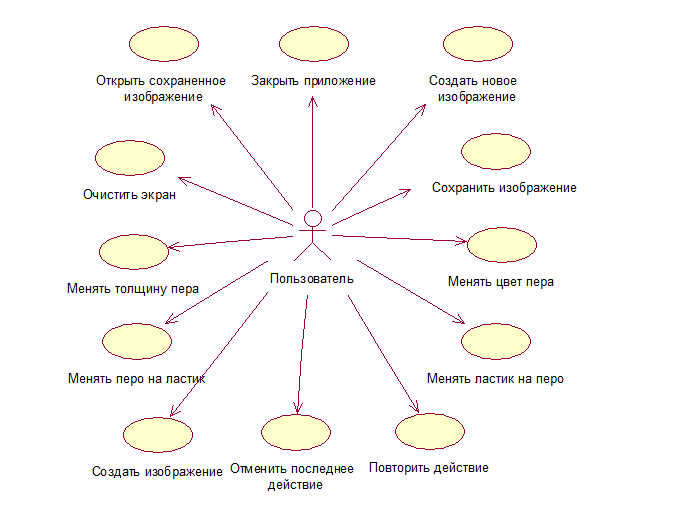
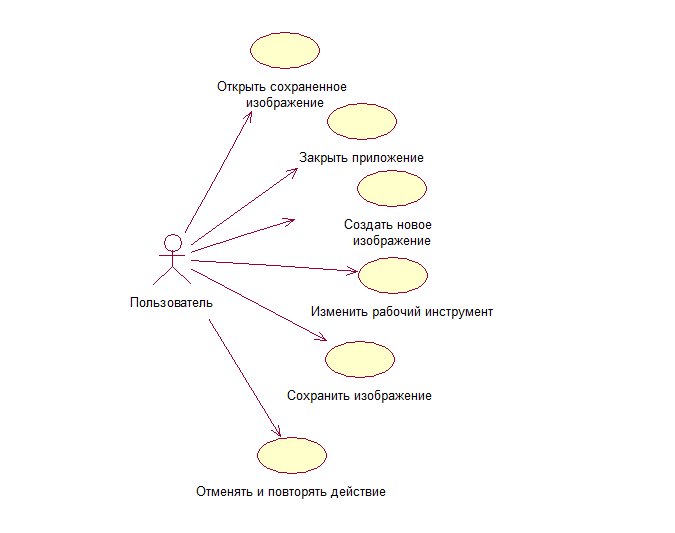
7

diff --git a/docs/diagramsDoc/useCase.md b/docs/diagramsDoc/useCase.md
@@ -1,3 +1,6 @@
+# Глосарий
+![](diagramsImg/GlossaryUseCase.png)
+
 # 1. Диаграмма вариантов использования
 ![](diagramsImg/UseCase.png)
 
@@ -29,21 +32,51 @@
 
 ## 2.3. Создать новое изображение
 ### Описание
-Вариант использования "Создать новое изображение" позволяет  пользователю открыть "Окно с рабочей поверхностью".
+Вариант использования "Создать новое изображение" позволяет  пользователю работать с рабочей поверхностью.
 ### Предусловие
-Пользователь нажал иконку "Добавить изображение".
+Пользователь нажал иконку "Добавить изображение" - открывается "Окно с рабочей поверхностью".
 ### Основной поток
 1. Приложение отображает "Окно с рабочей поверхностью".
+2. Пользователь проводит пальцем по экрану. При данном действии выполняется альтернативный поток А1.
+3. Пользователь нажал иконку "Очистить экран". При данном действии выполняется альтернативный поток А2.  
+4. Вариант использования завершается.
+
+### Альтернативный поток А1.
+1. Изображение на рабочей поверхности меняется.
 2. Вариант использования завершается.
 
-## 2.4. Очистить экран
-### Описание
-Вариант использования "Очистить экран" позволяет  пользователю привести  рабочую поверхность к первоначальному состоянию.
-### Предусловие
-Пользователь нажал иконку "Очистить экран".
-### Основной поток
+### Альтернативный поток А2.
 1. Рабочая поверхность очищается.
 2. Вариант использования завершается.
+
+## 2.4. Изменить рабочий инструмент.
+### Описание
+Вариант использования "Изменить рабочий инструмент" позволяет пользователю менять в пикселях толщину нарисованной линии, менять цвет пера на любой из 7 цветов радуги, менять перо на ластик и обратно.
+### Предусловие
+Пользователь нажимает иконки "Инструменты", на любой цветной кружок из 7 правой панели инструментов.
+### Основной поток
+1.  Приложение отображает "Окно с рабочей поверхностью".
+2. Пользователь нажимает на иконку "Инструменты". При данном действии выполняется альтернативные потоки А1, А2, А3.
+3. Пользователь, нажимая на любой кружок из 7 правой панели инструментов, меняет цвет пера.
+4. Вариант использования завершается.
+
+### Альтернативный поток А1.
+1. Приложение отображает "Окно выбора толщины пера и выбора между пером и ластиком".
+2. Пользователь меняет положение скрола "толщина" на необходимое количество пикселей.
+3.  Выходит в "Окно с рабочей поверхностью".
+4. Вариант использования завершается.
+
+### Альтернативный поток А2.
+1. Приложение отображает "Окно выбора толщины пера и выбора между пером и ластиком".
+2. Пользователь меняет иконку "перо" на иконку "ластик".
+3.  Выходит в "Окно с рабочей поверхностью".
+4. Вариант использования завершается.
+
+### Альтернативный поток А3.
+1. Приложение отображает "Окно выбора толщины пера и выбора между пером и ластиком".
+2. Пользователь меняет иконку "ластик" на иконку "перо".
+3. Выходит в "Окно с рабочей поверхностью".
+4. Вариант использования завершается.
 
 ## 2.5. Сохранить изображение
 ### Описание
@@ -53,12 +86,12 @@
 ### Основной поток
 1. Приложение отображает "Окно сохранения".
 2. Пользователь вводит имя картинки.
-3. Пользователь нажимает кнопку "Сохранить". Если пользователь ничего не ввел выполняется альтернативный поток А2.
+3. Пользователь нажимает кнопку "Сохранить". Если пользователь ничего не ввел выполняется альтернативный поток А1.
 4. Изображение сохраняется и отображается "Окно с рабочей поверхностью".
 Если изображение не сохраняется то выполняется поток ошибки Е1.
 5. Вариант использования завершается.
 
-### Альтернативный поток А2
+### Альтернативный поток А1
 1. Приложение сообщает пользователю об отсутствии информации в поле ввода.
 2. Возврат к п.1 основного потока.
 
@@ -66,73 +99,22 @@
 1. Приложение сообщает пользователю что картинка не была сохраненна.
 2. Вариант использования завершается досрочно.
 
-## 2.6. Менять толщину пера
+## 2.6. Отменить и повторить действие
 ### Описание
-Вариант использования "Менять толщину пера" позволяет  пользователю менять в пикселях толщину нарисованной линии.
+Вариант использования "Отменить и повторить действие" позволяет  пользователю менять состояние рабочей поверхности.
 ### Предусловие
-Пользователь нажимает иконку "Инструменты".
-
+Пользователь нажимает иконки "Отменить последнее действие" и "Повторить действие".
 ### Основной поток
-1.  Приложение отображает "Окно выбора толщины пера и выбора между пером и ластиком".
-2. Пользователь меняет положение скрола "толщина" на необходимое количество пикселей.
-3.  Выходит в "Окно с рабочей поверхностью".
-4. Вариант использования завершается.
+1.  Приложение отображает "Окно с рабочей поверхностью".
+2. Пользователь нажимает иконки "Отменить последнее действие".
+При данном действии выполняется альтернативный поток А1.
+3. Пользователь нажимает иконки "Повторить действие".
+При данном действии выполняется альтернативный поток А2.
 
-
-## 2.7. Менять цвет пера
-### Описание
-Вариант использования "Менять цвет пера" позволяет  пользователю менять цвет пера на любой из 7 цветов радуги.
-### Предусловие
-Пользователь нажимает на любой кружок из 7 правой панели инструментов.
-### Основной поток
-1. Цвет пера меняется
-2. Вариант использования завершается.
-
-## 2.8. Менять перо на ластик
-### Описание
-Вариант использования "Менять перо на ластик" позволяет  пользователю поменять перо на ластик.
-### Предусловие
-Пользователь нажимает иконку "Инструменты".
-### Основной поток
-1.  Приложение отображает "Окно выбора толщины пера и выбора между пером и ластиком".
-2. Пользователь меняет иконку "перо" на иконку "ластик".
-3. Выходит в "Окно с рабочей поверхностью".
-4. Вариант использования завершается.
-
-## 2.9. Менять ластик на перо
-### Описание
-Вариант использования "Менять ластик на перо" позволяет  пользователю поменять ластик на перо.
-### Предусловие
-Пользователь нажимает иконку "Инструменты".
-### Основной поток
-1.  Приложение отображает "Окно выбора толщины пера и выбора между пером и ластиком".
-2. Пользователь меняет иконку "ластик" на иконку "перо".
-3. Выходит в "Окно с рабочей поверхностью".
-4. Вариант использования завершается.
-
-## 2.10. Создать изображение
-### Описание
-Вариант использования "Создать изображение" позволяет  пользователю рисуя пальцем по рабочей поверхности создавать картинку.
-### Предусловие
-Пользователь проводит пальцем по рабочей поверхности.
-### Основной поток
-1. Изображение на рабочей поверхности меняется.
-2. Вариант использования завершается.
-
-## 2.11. Отменить последнее действие
-### Описание
-Вариант использования "Отменить последнее действие" позволяет  пользователю отменить последнее действие.
-### Предусловие
-Пользователь нажимает иконку "Отменить последнее действие".
-### Основной поток
+### Альтернативный поток А1
 1. Состояние рабочей поверхности меняется на придыдущее.
 2. Вариант использования завершается.
 
-## 2.12. Повторить действие
-### Описание
-Вариант использования "Повторить действие" позволяет  пользователю повторить отмененное действие.
-### Предусловие
-Пользователь нажимает иконку "Повторить действие".
-### Основной поток
+### Альтернативный поток А2
 1. Состояние рабочей поверхности меняется на отмененное.
 2. Вариант использования завершается.

diff --git a/docs/requirementsDoc/srs.md b/docs/requirementsDoc/srs.md
@@ -8,7 +8,7 @@
 ## 1. <a name="b">Введение</a>
 
 ### 1.1. Назначение
-В этом документе содержатся требования к приложению "SketchBook" под операционную среду Android.
+В этом документе содержаться требования к приложению "SketchBook" под операционную среду Android.
 
 ### 1.2. Границы
 Данное приложение позволяет рисовать пальцем элементарные картинки и сохранять их в формате png.
@@ -24,64 +24,51 @@
 
 ## 2. <a name ="c">Бизнес-требования</a>
 ### 2.1. Исходные данные
-Дети дошкольного возраста, занимаясь рисованием и используя реальные краски, могут испортить свою одежду и окружающий интерьер. Исходя из этого, данное приложение будет идеальным заменителем бумаги и кисточки.
+Дети дошкольного возраста занимаясь рисованием и используя реальные краски могут испортить свою одежду и окружающий интерьер.
 ### 2.2. Возможности бизнеса
-Приложение должно отличаться интуитивностью в использовании: ребенок любого возраста должен легко и просто, без знания языка,  в пару кликов, начать рисовать.
+Приложение должно отличаться интуитивностью в использовании - ребенок любого возраста должен легко и просто, без знания языка,  в пару кликов, начать рисовать.
 ## 3. <a name = "d">Требования пользователя</a>
 ### 3.1. Программные интерфейсы
 Проект использует Android 6.0, API Level: 23, выполнен в интегрированной среде разработки для работы с платформой Android - Android Studio.
 ### 3.2. Интерфейс пользователя
-Главное окно приложения, из которого можно открыть сохраненное изображение или добавить новое.
-
+Главное окно приложения из которого можно открыть сохраненное изображение или добавить новое.
 ![](mockups/Main.png)
 
 Нажав на иконку загрузки, которая находится в верхнем правом углу главного окна, открывается окно с сохраненными картинками.
-
 ![](mockups/Loading.png)
 
 Окно с рабочей поверхностью и с двумя панелями инструментов.
-
 ![](mockups/Working.png)
 
 Окно сохранения.
-
 ![](mockups/Save.png)
 
-Окно выбора толщины пера и выбора между пером и ластиком.
-
+Окновы выбора толщины пера и выбора между пером и ластиком.
 ![](mockups/Tools.png)
 
 ### 3.3. Характеристики пользователя
-Приложение рассчитано для творческого развития детей дошкольного возраста, а также как средство досуга и релакса людей других возрастных категорий.
+Приложение рассчитано для творческого развития детей дошкольного возраста, а так же как средство досуга и релакса других возрастных категорий.
 ### 3.4. Предположения и зависимости
-* необходимое свободное место в памяти мобильного устройства около 10 Мбайт;
-* приложение может работать оффлайн.
+* необходимое сводное место в памяти мобильного устройства в районе 10 Мбайт;
+* приложение может работать офлайн.
 
-
-
-## 4. <a name = "e">Системные требования</a>
-
+## 4. <a name = "e"> Системные требования </a>
 ### 4.1. Функциональные требования
 При работе с приложением пользователь должен иметь следующие возможности:
-* открыть ранее сохраненное изображение;
-* закрыть приложение;
-* создать новое изображение;
-<<<<<<< HEAD
+
+#### 4.1.1. Открыть ранее сохраненное изображение.
+#### 4.1.2. Закрыть приложение.
+#### 4.1.3. Cоздать новое изображение:
+* рисовать на рабочей поверхности;
 * очистить экран;
-* сохранить изображение;
+
+#### 4.1.4. Изменять рабочий инструмент:
 * менять толщину пера;
+* менять перо на ластик и обратно;
 * менять цвет пера;
-* менять перо на ластик;
-* менять ластик на перо;
-* создать изображение;
-* отменить последнее действие;
-* повторить действие.
-=======
-* изменять толщину пера;
-* изменять цвет пера;
-* изменять перо на ластик и обратно;
-* отменять последнее действие и повторять действие.
->>>>>>> d913977f0b79fe72d96df1a81652da35fbb07850
+
+#### 4.1.5. Cохранять изображение.
+#### 4.1.6. Отменять последнее действие и повторять действие.
 
 ### 4.2. Нефункциональные требования
 #### 4.2.1. Атрибуты качества
@@ -89,12 +76,12 @@
 * высокая производительность;
 * малое потребление ресурсов;
 * во время сбоев данные должны сохраняться;
-* масштабируемость интерфейса под различные диагонали.
+* масштабируемость интерфейса под различную диагональ.
 
 #### 4.2.2. Бизнес-правила
-Так как основной потребитель это дети дошкольного возраста, накладываются следующие ограничения:
-* для меньшего влияния на зрение ярлыки должны быть достаточно большие, неяркие, и их будет немного;
-* включает в себя только основные цвета (цвета радуги).
+Так как основной потребитель это дети дошкольного возраста накладываются следующие ограничения:
+* для меньшего влияния на зрение ярлыки должны быть достаточно большие, не яркие и их будет немного;
+*  включает в себя только основные цвета (цвета радуги).
 
 #### 4.2.3. Внешние интерфейсы
 * интерфейс оформлен в соответствии с Android стандартами.
@@ -102,4 +89,4 @@
 #### 4.2.4. Ограничения
 * приложение работает на Android c версии 5.0;
 * приложение написано на Java 1.7;
-* при переполненной памяти мобильного устройства сохранить изображение невозможно.
+* при переполненной памяти мобильного устройства сохранить изображение не возможно;
